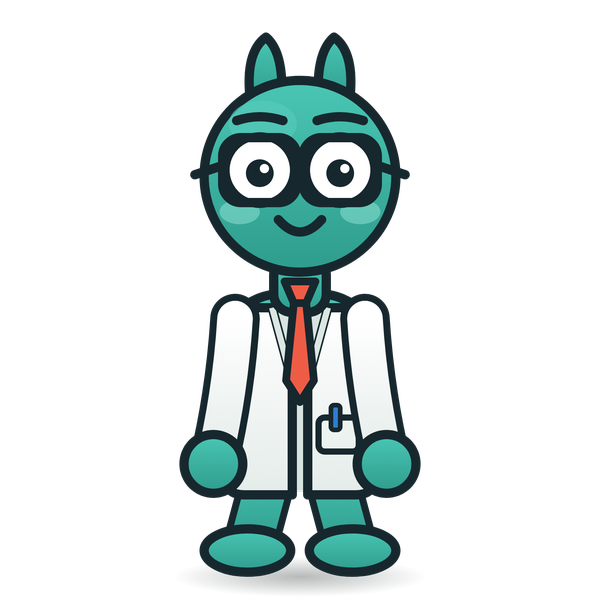
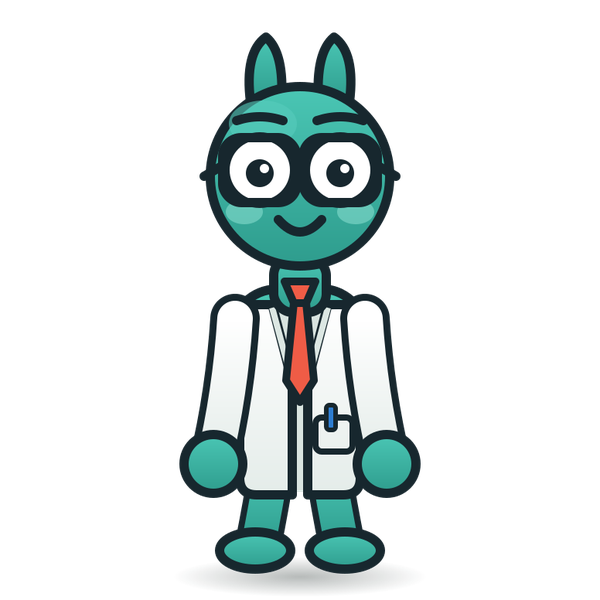
mascot: slim Data down — an actual torso, not a teal ball
The rig's body was a 104x112 rect at rx=40: a sphere with a lab coat drawn
on it, standing on 36px-wide stumps that splayed wider than the body itself.
Every performance in the library rode on top of that silhouette, so no amount
of new acting fixed how he READ.

Reshaped the fixed rig (the character, not the poses): torso 88x121 at rx=29,
shanks narrowed 36/27 -> 30/22 and tucked under the hips, feet 28 -> 23,
coat panels and pocket brought in to match, head 62 -> 58 so the proportions
stay cartoon without going bobble-head, glasses temples shortened to stay on
the face. Regenerated the committed pose SVG/PNG assets.

All 21 performance primitives still pass the isolation gate (84 checks, 0
failed) — the acting library is untouched, it now just plays on a body with
a waist.

Claude-Session: https://claude.ai/code/session_011e98doYAZDun4tx8nJndR2

diff --git a/scripts/build_mascot_svg.py b/scripts/build_mascot_svg.py
@@ -63,28 +63,34 @@ def horns():
 
 
 def legs():
-    return (limb(152, 300, 138, 352, 0, 36, 27, 0) +
-            limb(188, 300, 202, 352, 0, 36, 27, 0))
+    # Thinner shanks that stand under the narrower torso instead of splaying
+    # out past it (the old 36/27 stumps at x=138/202 widened the silhouette
+    # exactly where it already read heaviest).
+    return (limb(152, 302, 143, 352, 0, 30, 22, 0) +
+            limb(188, 302, 197, 352, 0, 30, 22, 0))
 
 
 def feet():
-    return (f'<ellipse cx="136" cy="356" rx="28" ry="14" fill="{TEAL}" '
+    return (f'<ellipse cx="141" cy="356" rx="23" ry="12" fill="{TEAL}" '
             f'stroke="{OUTLINE}" stroke-width="{SW}"/>'
-            f'<ellipse cx="204" cy="356" rx="28" ry="14" fill="{TEAL}" '
+            f'<ellipse cx="199" cy="356" rx="23" ry="12" fill="{TEAL}" '
             f'stroke="{OUTLINE}" stroke-width="{SW}"/>')
 
 
 def torso():
-    return (f'<rect x="118" y="190" width="104" height="112" rx="40" '
+    # Narrower and a touch taller than the original blob: 104x112 at rx=40
+    # read as a ball with a coat painted on it. 86x120 at rx=28 gives Data an
+    # actual torso — same silhouette language, just not spherical.
+    return (f'<rect x="126" y="187" width="88" height="121" rx="29" '
             f'fill="{TEAL}" stroke="{OUTLINE}" stroke-width="{SW}"/>')
 
 
 def coat():
-    left = ("M122,210 Q122,199 132,199 L152,199 L165,247 L165,320 "
-            "L134,320 Q122,320 122,309 Z")
-    right = ("M218,210 Q218,199 208,199 L188,199 L175,247 L175,320 "
-             "L206,320 Q218,320 218,309 Z")
-    return (f'<rect x="151" y="198" width="38" height="120" rx="14" '
+    left = ("M131,208 Q131,197 141,197 L152,197 L165,247 L165,320 "
+            "L142,320 Q131,320 131,309 Z")
+    right = ("M209,208 Q209,197 199,197 L188,197 L175,247 L175,320 "
+             "L198,320 Q209,320 209,309 Z")
+    return (f'<rect x="153" y="196" width="34" height="122" rx="13" '
             f'fill="{SHIRT}"/>'
             f'<path d="{left}" fill="{COAT}" stroke="{OUTLINE}" '
             f'stroke-width="{SW}" stroke-linejoin="round"/>'
@@ -94,9 +100,9 @@ def coat():
             f'stroke-width="4"/>'
             f'<path d="M188,199 L175,247" fill="none" stroke="{COATSH}" '
             f'stroke-width="4"/>'
-            f'<rect x="182" y="270" width="26" height="22" rx="4" fill="none" '
+            f'<rect x="180" y="270" width="24" height="22" rx="4" fill="none" '
             f'stroke="{OUTLINE}" stroke-width="4"/>'
-            f'<rect x="190" y="262" width="6" height="16" rx="2" fill="{PEN}" '
+            f'<rect x="187" y="262" width="6" height="16" rx="2" fill="{PEN}" '
             f'stroke="{OUTLINE}" stroke-width="3"/>')
 
 
@@ -106,16 +112,16 @@ def neck():
 
 
 def head():
-    return (f'<circle cx="170" cy="114" r="62" fill="{TEAL}" '
+    return (f'<circle cx="170" cy="114" r="58" fill="{TEAL}" '
             f'stroke="{OUTLINE}" stroke-width="{SW}"/>'
             f'<ellipse cx="146" cy="80" rx="22" ry="15" fill="{TEALHI}" '
             f'opacity="0.6"/>')
 
 
 def cheeks():
-    return (f'<ellipse cx="131" cy="137" rx="13" ry="8" fill="#8CE0D1" '
+    return (f'<ellipse cx="134" cy="137" rx="12" ry="8" fill="#8CE0D1" '
             f'opacity="0.55"/>'
-            f'<ellipse cx="209" cy="137" rx="13" ry="8" fill="#8CE0D1" '
+            f'<ellipse cx="206" cy="137" rx="12" ry="8" fill="#8CE0D1" '
             f'opacity="0.55"/>')
 
 
@@ -128,9 +134,9 @@ def glasses():
     return (_frame(LEX) + _frame(REX) +
             f'<path d="M{LEX+24},{EY-3} L{REX-24},{EY-3}" stroke="{OUTLINE}" '
             f'stroke-width="{SW}" stroke-linecap="round"/>'
-            f'<path d="M{LEX-24},{EY-3} L{LEX-42},{EY+3}" stroke="{OUTLINE}" '
+            f'<path d="M{LEX-24},{EY-3} L{LEX-36},{EY+4}" stroke="{OUTLINE}" '
             f'stroke-width="{SW}" stroke-linecap="round"/>'
-            f'<path d="M{REX+24},{EY-3} L{REX+42},{EY+3}" stroke="{OUTLINE}" '
+            f'<path d="M{REX+24},{EY-3} L{REX+36},{EY+4}" stroke="{OUTLINE}" '
             f'stroke-width="{SW}" stroke-linecap="round"/>')
 
 
@@ -248,7 +254,7 @@ def pose_svg(pose: str) -> str:
 # and props can be layered behind or in front. This is what lets a per-scene
 # director place Data INTO the scene (on the cans, pushing the cart, riding
 # the chart) instead of parking a fixed pose.
-LEG_W = (36, 27)
+LEG_W = (30, 22)
 
 
 def lower_stand():
@@ -261,9 +267,9 @@ def lower_seated():
          limb(126, 328, 150, 356, 0, *LEG_W, 0) +
          limb(188, 300, 214, 328, 0, *LEG_W, 0) +
          limb(214, 328, 190, 356, 0, *LEG_W, 0))
-    return s + (f'<ellipse cx="150" cy="358" rx="26" ry="13" fill="{TEAL}" '
+    return s + (f'<ellipse cx="150" cy="358" rx="22" ry="11" fill="{TEAL}" '
                 f'stroke="{OUTLINE}" stroke-width="{SW}"/>'
-                f'<ellipse cx="190" cy="358" rx="26" ry="13" fill="{TEAL}" '
+                f'<ellipse cx="190" cy="358" rx="22" ry="11" fill="{TEAL}" '
                 f'stroke="{OUTLINE}" stroke-width="{SW}"/>')
 
 
@@ -271,9 +277,9 @@ def lower_ride():
     """Straddle posture (for riding a mount)."""
     s = (limb(152, 300, 116, 360, 0, *LEG_W, 0) +
          limb(188, 300, 224, 360, 0, *LEG_W, 0))
-    return s + (f'<ellipse cx="112" cy="362" rx="26" ry="13" fill="{TEAL}" '
+    return s + (f'<ellipse cx="112" cy="362" rx="22" ry="11" fill="{TEAL}" '
                 f'stroke="{OUTLINE}" stroke-width="{SW}"/>'
-                f'<ellipse cx="228" cy="362" rx="26" ry="13" fill="{TEAL}" '
+                f'<ellipse cx="228" cy="362" rx="22" ry="11" fill="{TEAL}" '
                 f'stroke="{OUTLINE}" stroke-width="{SW}"/>')
 
 

diff --git a/data_learning/mascot_director.py b/data_learning/mascot_director.py
@@ -662,11 +662,11 @@ def _a_juggle(t, prop):
 
 def _a_push(t, prop):
     sw = _s(t) * 16
-    lower = (R.limb(152, 300, int(138 + sw), 352, 0, 36, 27, 0) +
-             R.limb(188, 300, int(202 - sw), 352, 0, 36, 27, 0) +
-             f'<ellipse cx="{136+sw:.0f}" cy="356" rx="26" ry="13" fill="{R.TEAL}" '
+    lower = (R.limb(152, 300, int(138 + sw), 352, 0, 30, 22, 0) +
+             R.limb(188, 300, int(202 - sw), 352, 0, 30, 22, 0) +
+             f'<ellipse cx="{136+sw:.0f}" cy="356" rx="22" ry="11" fill="{R.TEAL}" '
              f'stroke="{OUT}" stroke-width="6"/>'
-             f'<ellipse cx="{204-sw:.0f}" cy="356" rx="26" ry="13" fill="{R.TEAL}" '
+             f'<ellipse cx="{204-sw:.0f}" cy="356" rx="22" ry="11" fill="{R.TEAL}" '
              f'stroke="{OUT}" stroke-width="6"/>')
     arms = R.arm(*R.SHL, 250, 250, -6) + R.arm(*R.SHR, 258, 288, 6)
     cx, cy, rot = 330, 250, t * 360
@@ -762,11 +762,11 @@ def _a_push_bar(t, _prop):
     """Braced stance, both arms shoving RIGHT into the bar he stands against;
     a big strain sway drives the effort. (This is _a_push with the cart removed.)"""
     sw = _s(t) * 30
-    lower = (R.limb(152, 300, int(138 + sw), 352, 0, 36, 27, 0) +
-             R.limb(188, 300, int(202 - sw), 352, 0, 36, 27, 0) +
-             f'<ellipse cx="{136+sw:.0f}" cy="356" rx="26" ry="13" fill="{R.TEAL}" '
+    lower = (R.limb(152, 300, int(138 + sw), 352, 0, 30, 22, 0) +
+             R.limb(188, 300, int(202 - sw), 352, 0, 30, 22, 0) +
+             f'<ellipse cx="{136+sw:.0f}" cy="356" rx="22" ry="11" fill="{R.TEAL}" '
              f'stroke="{OUT}" stroke-width="6"/>'
-             f'<ellipse cx="{204-sw:.0f}" cy="356" rx="26" ry="13" fill="{R.TEAL}" '
+             f'<ellipse cx="{204-sw:.0f}" cy="356" rx="22" ry="11" fill="{R.TEAL}" '
              f'stroke="{OUT}" stroke-width="6"/>')
     px = int(250 + sw)                    # arms swing far as he heaves
     arms = R.arm(*R.SHL, px, 250, -6) + R.arm(*R.SHR, px + 8, 288, 6)
@@ -794,11 +794,11 @@ def _a_climb(t, _prop):
     arms = (R.arm(*R.SHL, 120, int(120 + up), -14)
             + R.arm(*R.SHR, 216, int(120 - up), 14))
     ll, rl = int(150 + up * 0.5), int(202 - up * 0.5)
-    lower = (R.limb(152, 300, ll, 352, 0, 36, 27, 0) +
-             R.limb(188, 300, rl, 352, 0, 36, 27, 0) +
-             f'<ellipse cx="{ll}" cy="356" rx="24" ry="12" fill="{R.TEAL}" '
+    lower = (R.limb(152, 300, ll, 352, 0, 30, 22, 0) +
+             R.limb(188, 300, rl, 352, 0, 30, 22, 0) +
+             f'<ellipse cx="{ll}" cy="356" rx="21" ry="10" fill="{R.TEAL}" '
              f'stroke="{OUT}" stroke-width="6"/>'
-             f'<ellipse cx="{rl}" cy="356" rx="24" ry="12" fill="{R.TEAL}" '
+             f'<ellipse cx="{rl}" cy="356" rx="21" ry="10" fill="{R.TEAL}" '
              f'stroke="{OUT}" stroke-width="6"/>')
     return (arms, lower, "", "",
             R.eye_open(R.LEX, 2, -2) + R.eye_open(R.REX, 2, -2),
@@ -848,13 +848,13 @@ def _braced_legs(crouch=0.0, sway=0.0):
     ky = 300 + 12 + crouch * 26                 # knees drop as he squats
     kx_l, kx_r = 138 - crouch * 8, 202 + crouch * 8
     fl, fr = 138 - sway, 202 + sway
-    legs = (R.limb(152, 300, int(kx_l), int(ky), 0, 36, 27, 0) +
-            R.limb(int(kx_l), int(ky), int(fl), 352, 0, 36, 27, 0) +
-            R.limb(188, 300, int(kx_r), int(ky), 0, 36, 27, 0) +
-            R.limb(int(kx_r), int(ky), int(fr), 352, 0, 36, 27, 0))
-    feet = (f'<ellipse cx="{fl-2:.0f}" cy="356" rx="27" ry="13" fill="{R.TEAL}" '
+    legs = (R.limb(152, 300, int(kx_l), int(ky), 0, 30, 22, 0) +
+            R.limb(int(kx_l), int(ky), int(fl), 352, 0, 30, 22, 0) +
+            R.limb(188, 300, int(kx_r), int(ky), 0, 30, 22, 0) +
+            R.limb(int(kx_r), int(ky), int(fr), 352, 0, 30, 22, 0))
+    feet = (f'<ellipse cx="{fl-2:.0f}" cy="356" rx="23" ry="11" fill="{R.TEAL}" '
             f'stroke="{OUT}" stroke-width="6"/>'
-            f'<ellipse cx="{fr+2:.0f}" cy="356" rx="27" ry="13" fill="{R.TEAL}" '
+            f'<ellipse cx="{fr+2:.0f}" cy="356" rx="23" ry="11" fill="{R.TEAL}" '
             f'stroke="{OUT}" stroke-width="6"/>')
     return legs + feet
 
@@ -950,11 +950,11 @@ def _dangle_legs(kick=0.0, spread=1.0):
     """Legs hanging in the air (feet OFF the ground), kicking by ``kick``."""
     lx = int(150 - 14 * spread - kick)
     rx = int(190 + 14 * spread - kick)
-    legs = (R.limb(152, 300, lx, 360, 0, 34, 25, 0) +
-            R.limb(188, 300, rx, 362, 0, 34, 25, 0))
-    feet = (f'<ellipse cx="{lx-2}" cy="366" rx="25" ry="12" fill="{R.TEAL}" '
+    legs = (R.limb(152, 300, lx, 360, 0, 29, 21, 0) +
+            R.limb(188, 300, rx, 362, 0, 29, 21, 0))
+    feet = (f'<ellipse cx="{lx-2}" cy="366" rx="22" ry="10" fill="{R.TEAL}" '
             f'stroke="{OUT}" stroke-width="6"/>'
-            f'<ellipse cx="{rx+2}" cy="368" rx="25" ry="12" fill="{R.TEAL}" '
+            f'<ellipse cx="{rx+2}" cy="368" rx="22" ry="10" fill="{R.TEAL}" '
             f'stroke="{OUT}" stroke-width="6"/>')
     return legs + feet
 
